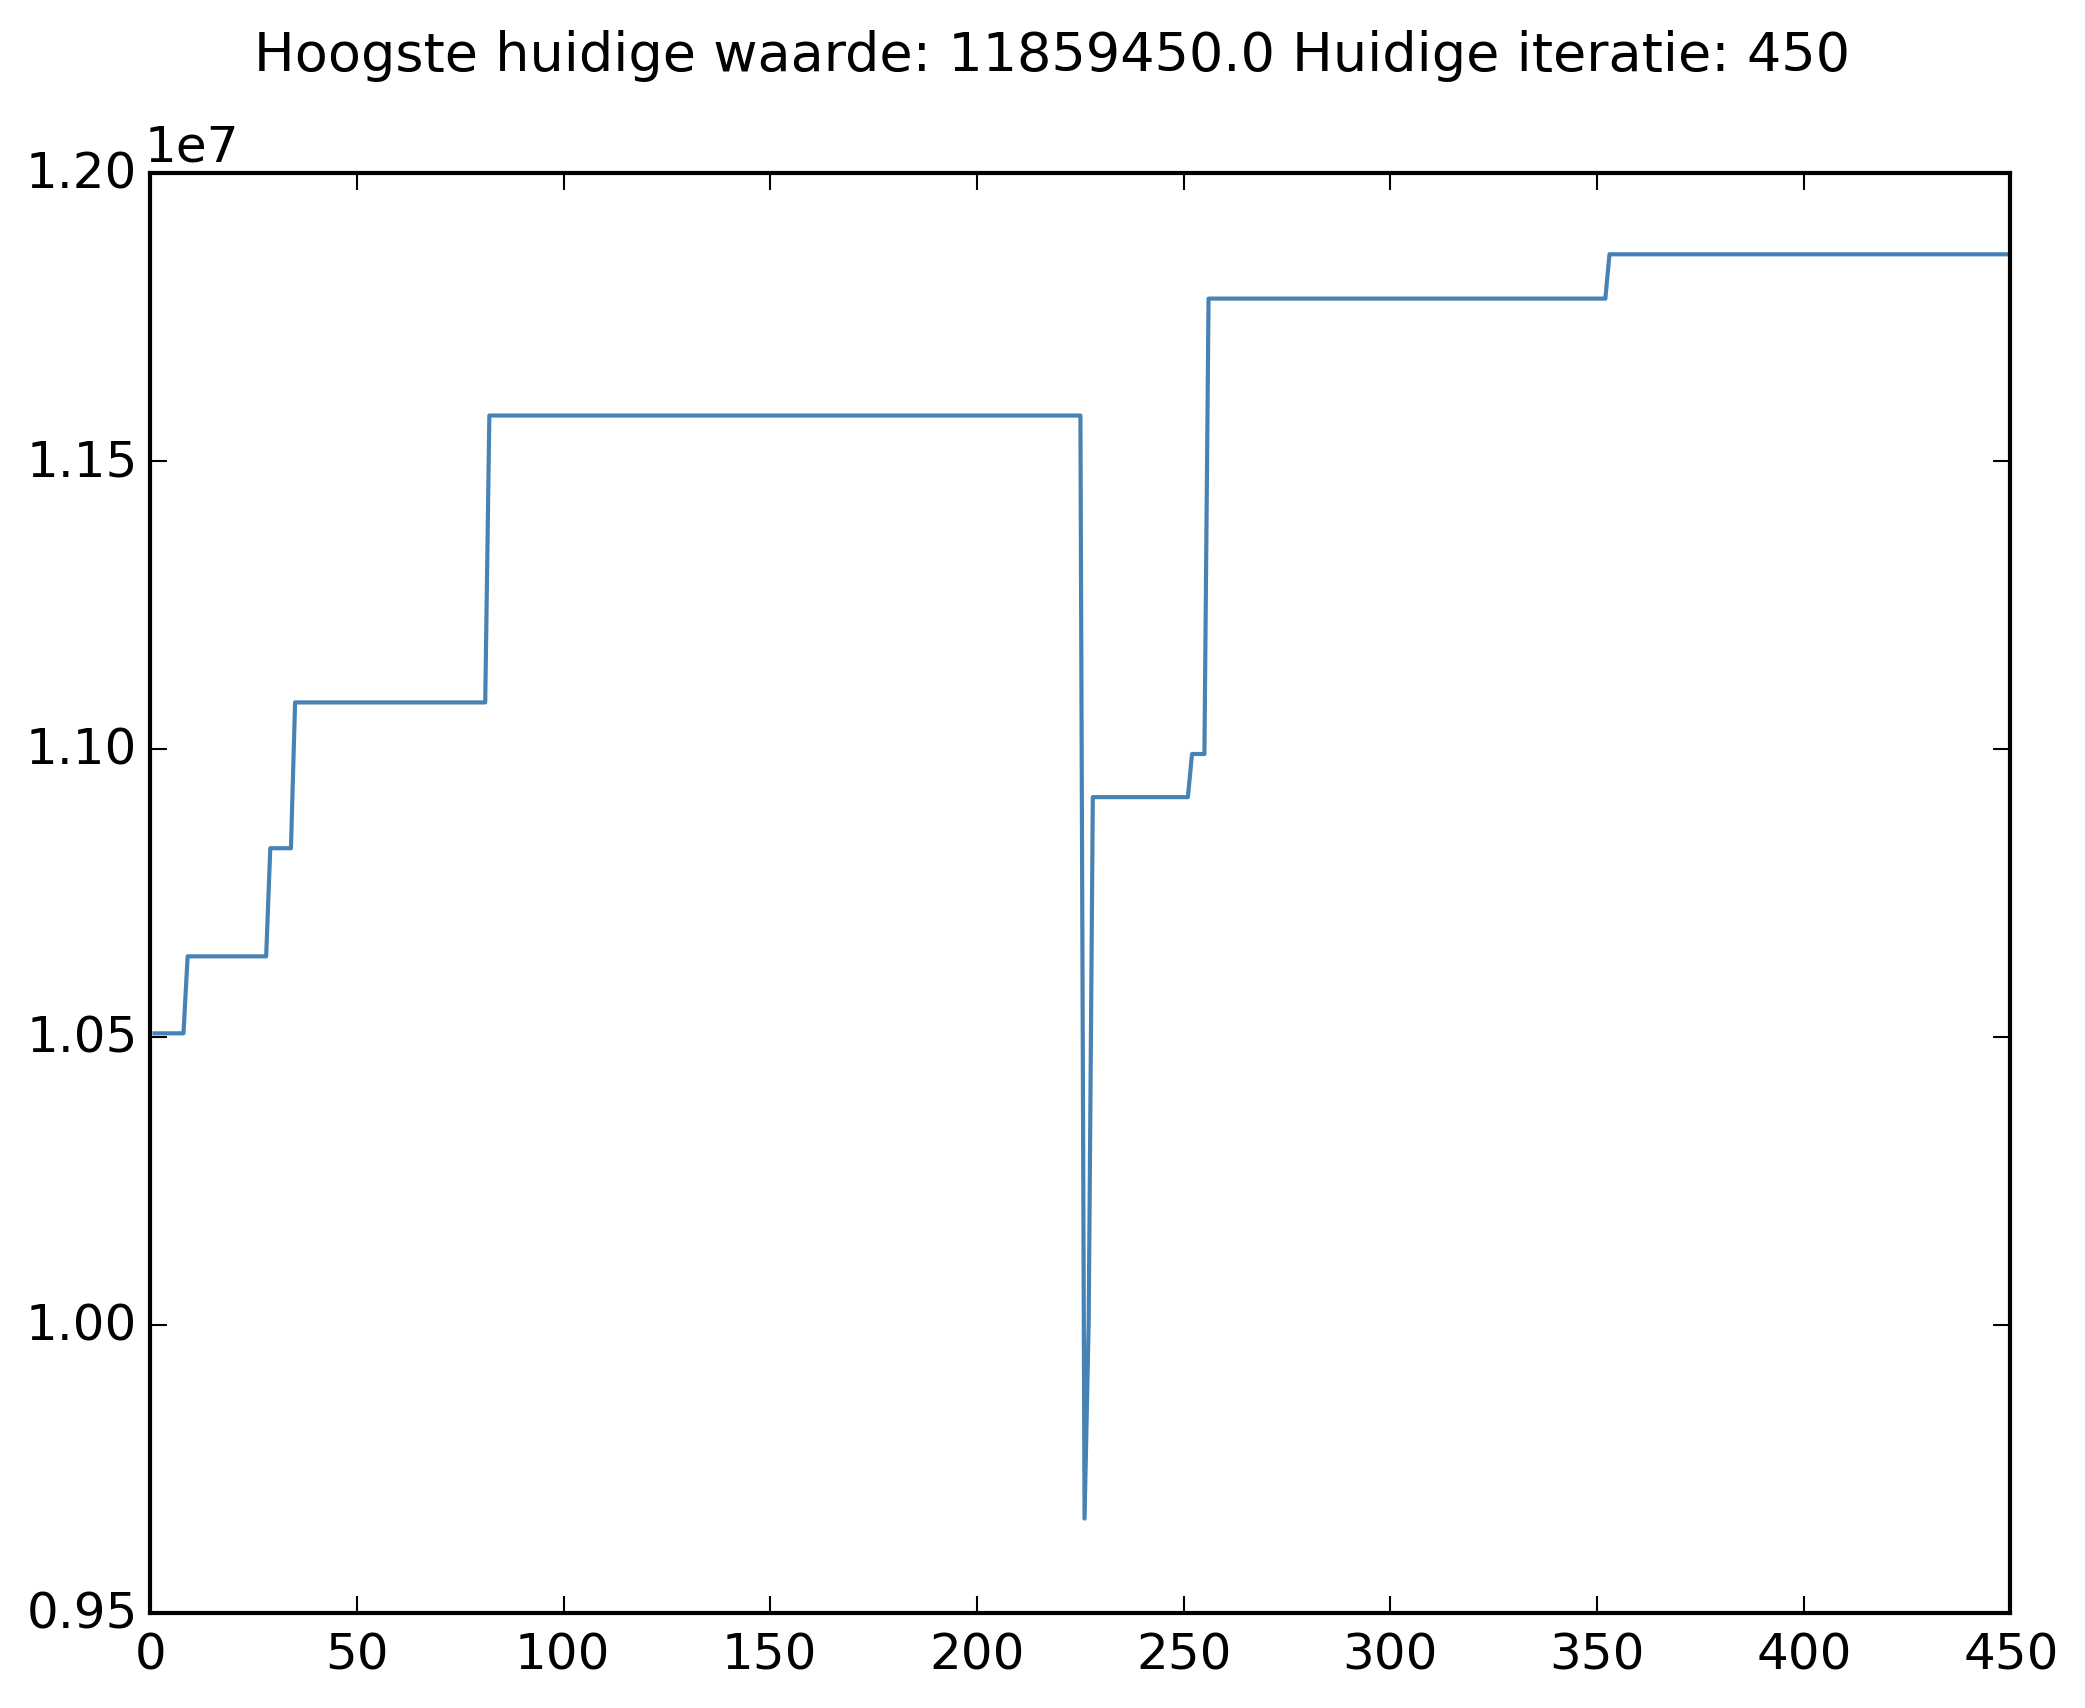
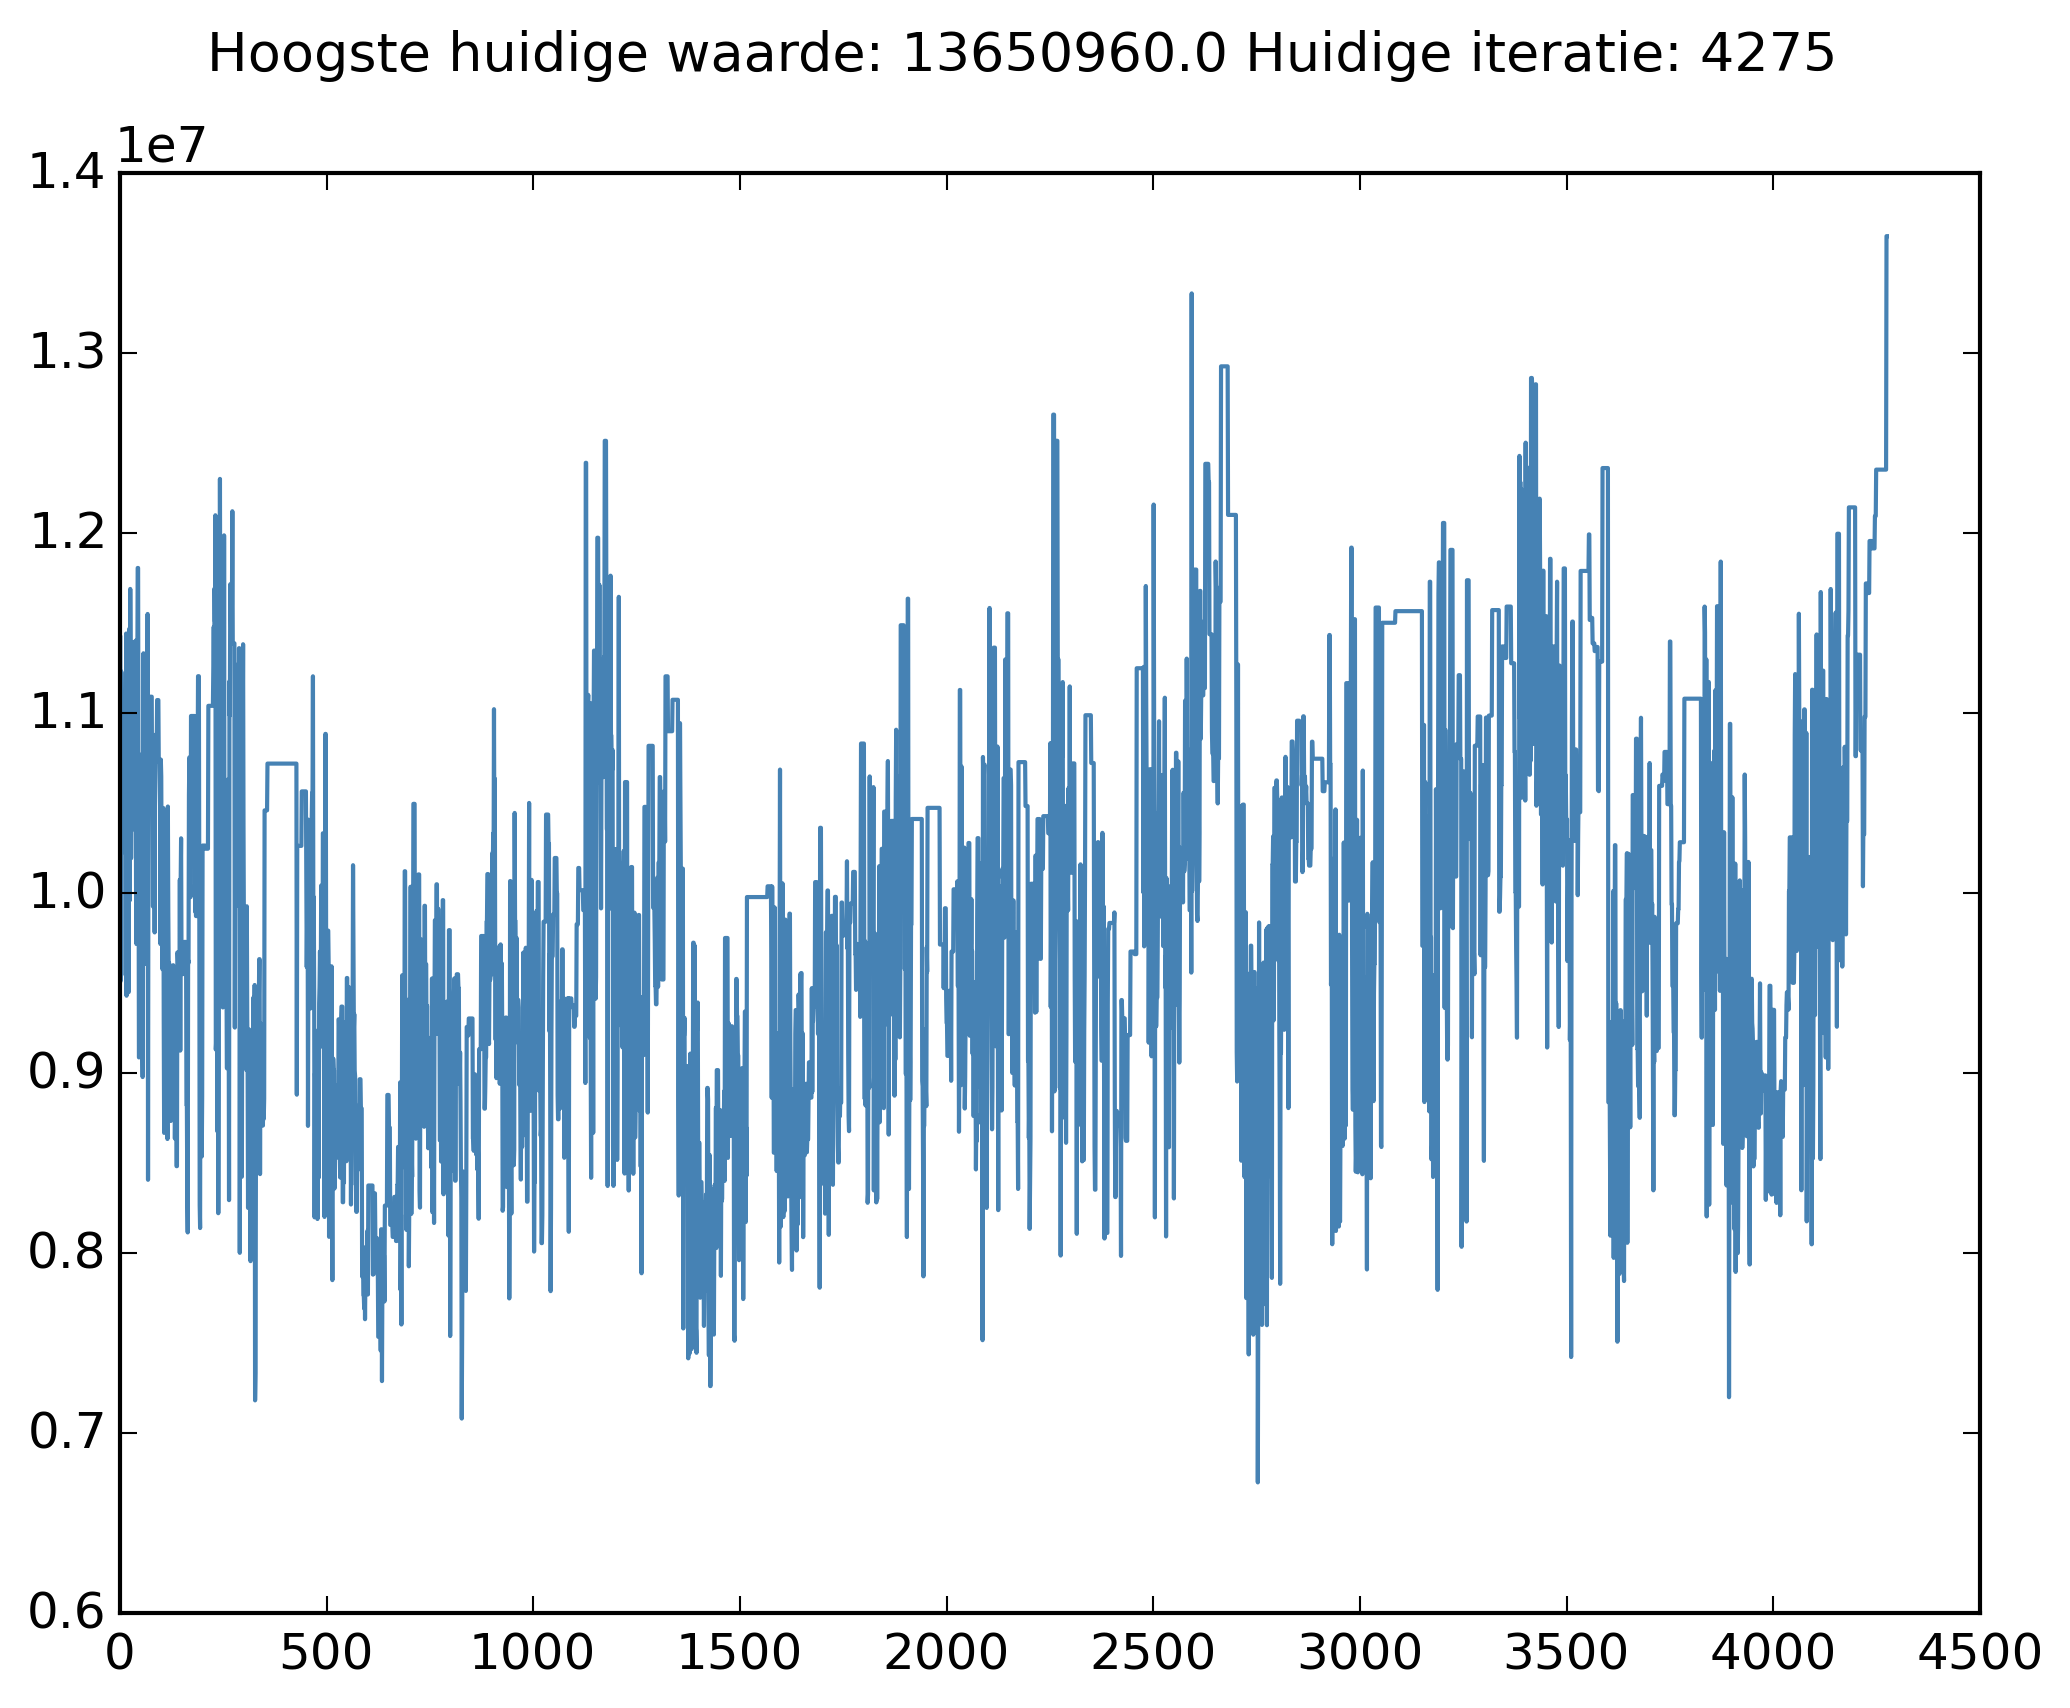
sim.annealing schuiven werkt nu ook op waarde

diff --git a/main.py b/main.py
@@ -297,9 +297,11 @@ elif str(sys.argv[2]) == "schuifswap":
 
 elif str(sys.argv[2]) == "annealingschuiven":
     plt.title('Amstelhaege Simulated Annealing Schuiven')
+    olddelta = 0
+    delta = 0
     while True:
         combinatie = createRandom()
-        random.shuffle(combinatie)
+        random.shuffle(combinatie.houses)
         oldcombi = copy.deepcopy(combinatie)
         temperatuur = begintemperatuur
         huidigewaarden = []
@@ -311,10 +313,15 @@ elif str(sys.argv[2]) == "annealingschuiven":
                 update = True
             if schuiven(combinatie) == True:
                 combinatie.evalueer()
-                kans = annealingKans(combinatie.evaluatie[criterium], oldcombi.evaluatie[criterium], temperatuur)
+                if criterium == 1:
+                    delta = int(combinatie.evaluatie[criterium] / 25000)
+                    kans = annealingKans(delta, olddelta, temperatuur)
+                else:
+                    kans = annealingKans(combinatie.evaluatie[criterium], oldcombi.evaluatie[criterium], temperatuur)
                 if random.random() < kans:
                     # bewaar nieuwe combinatie
                     oldcombi = copy.deepcopy(combinatie)
+                    olddelta = copy.copy(delta)
                 else:
                     # houd oude combi
                     combinatie = copy.deepcopy(oldcombi)
